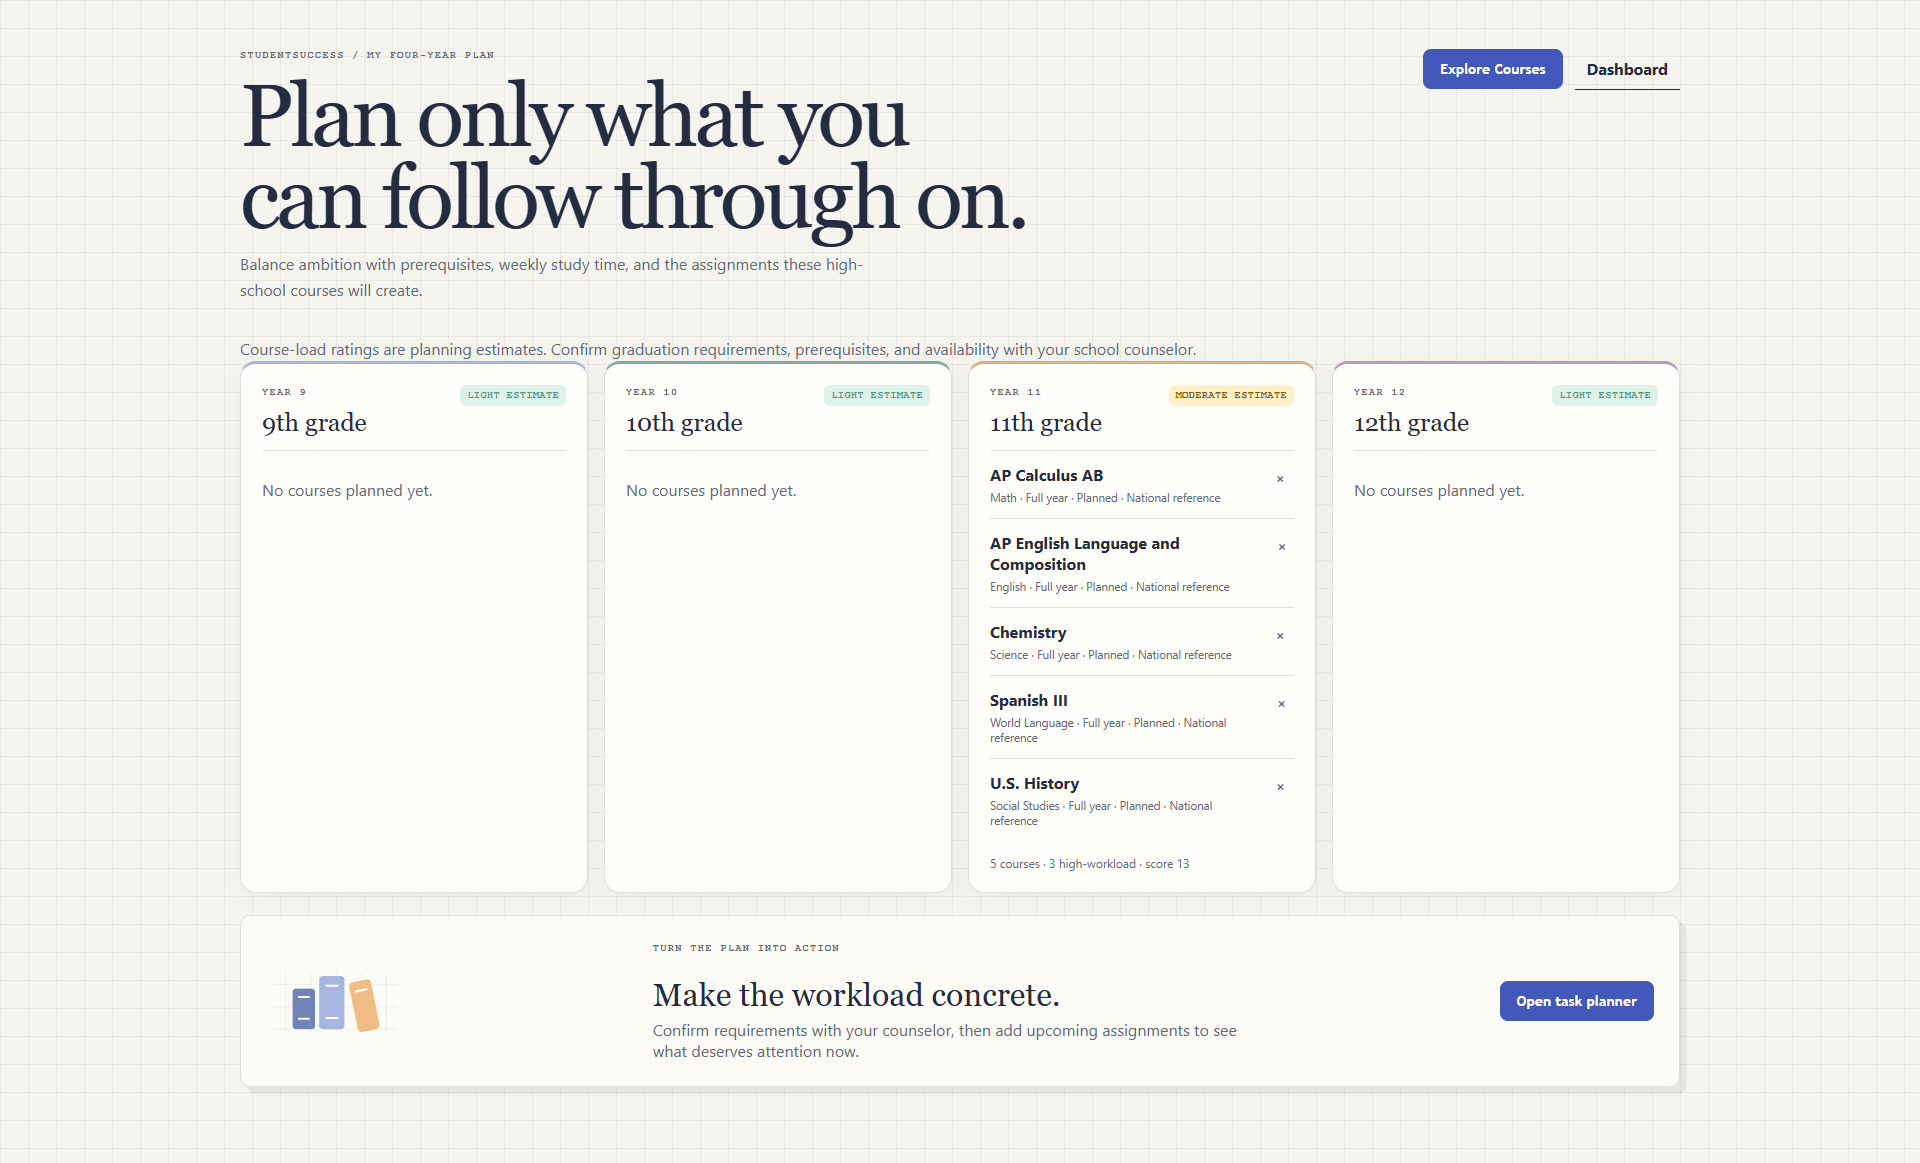
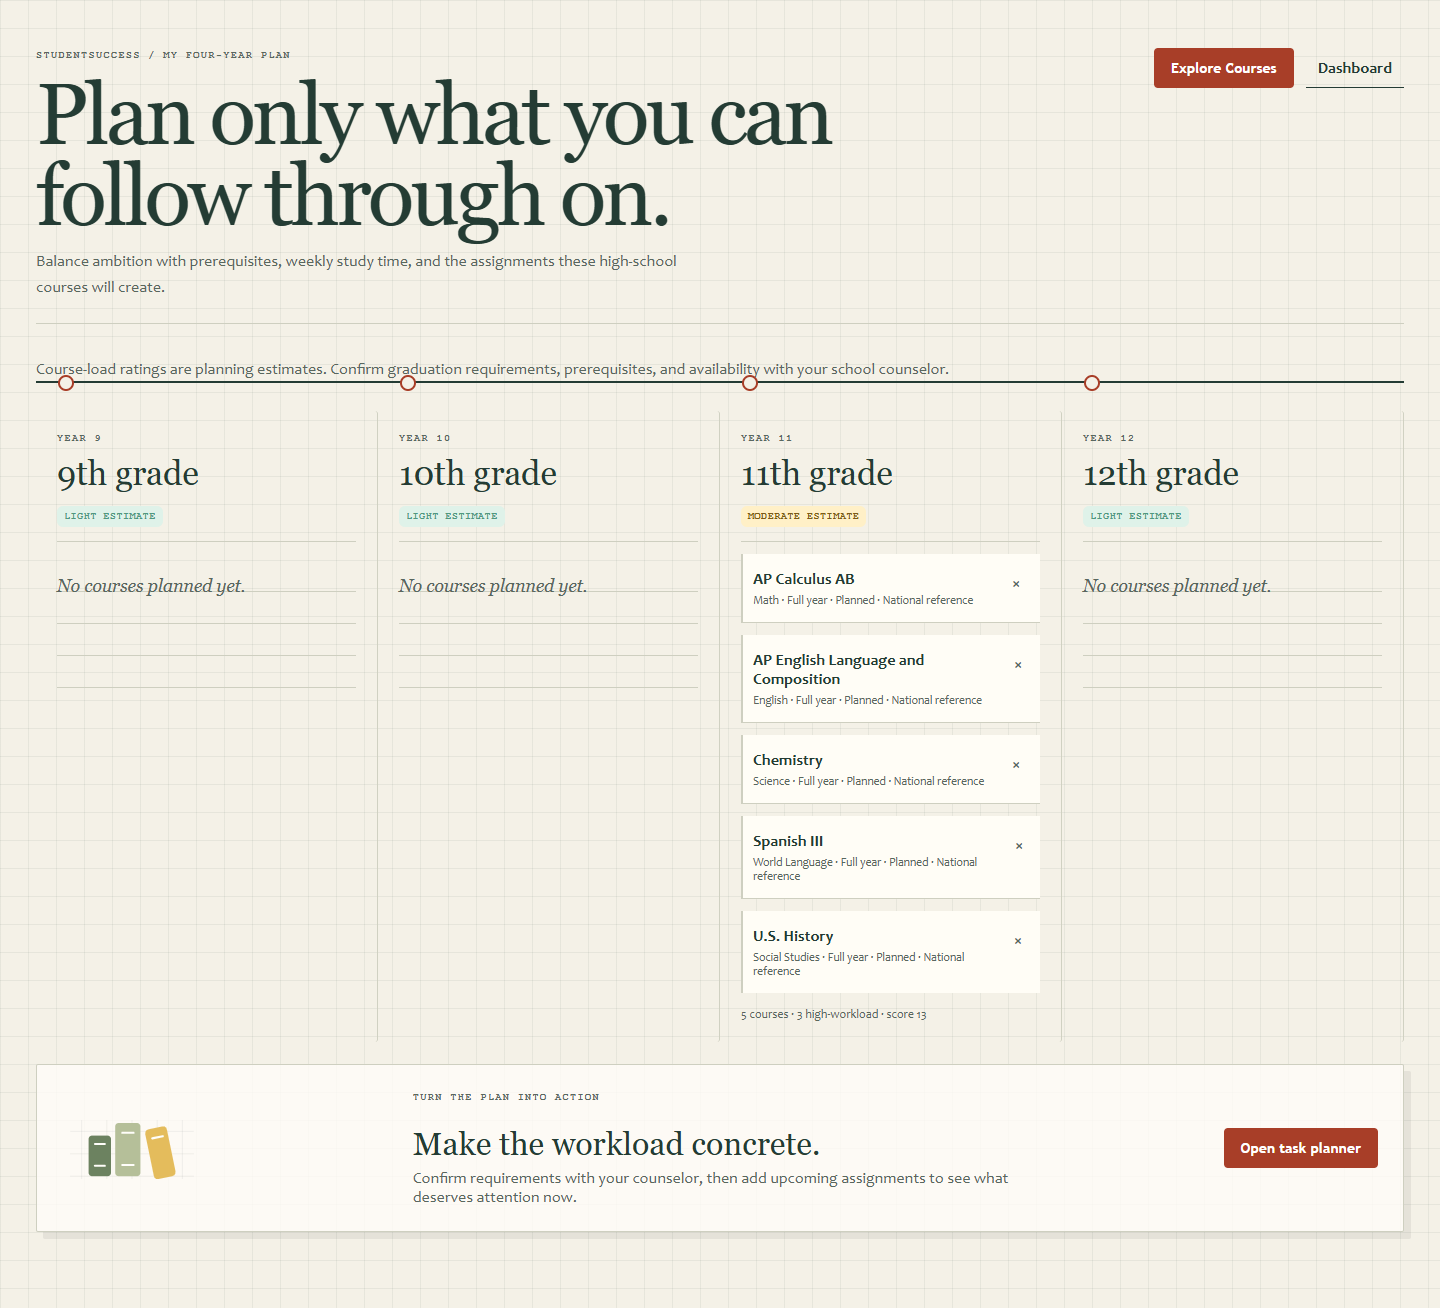
Refresh showcase with current notebook UI and eleven product screenshots

diff --git a/docs/screenshots/README.md b/docs/screenshots/README.md
@@ -2,52 +2,72 @@
 
 [Back to the project README](../../README.md)
 
-Captured September 16, 2026 from the public prototype using fictional demo data. Images are the original user-supplied captures. Open an image at full size to read the longer pages.
+Captured September 17, 2026 from the current application running locally with isolated fictional demo data. Desktop images are 1440 pixels wide; mobile images are 390 pixels wide. These captures show the design deployed at [StudentSuccess](https://studentsuccess.onrender.com/). Open any image at full size for detail.
+
+Still images do not show motion: try the landing-page example on the live site to see the paper tilt, note arrangement, and paper-plane animation.
 
 ## Landing page
 
-Entry points for private planners and the fictional demo.
+Graph paper, layered notes, a folded-paper plane, and entry points for the demo and private planners.
 
-[![Landing page ? Entry points for private planners and the fictional demo.](landing.png)](landing.png)
+[![Landing page: Graph paper, layered notes, a folded-paper plane, and entry points for the demo and private planners.](landing.png)](landing.png)
+
+## Interactive starting plan
+
+The example notes settle into a starting plan. Choose a problem set, essay, or exam, then check the first-step box to see the paper-plane animation. Pointer tilt and motion respect reduced-motion preferences.
+
+[![Interactive starting plan: The example notes settle into a starting plan. Choose a problem set, essay, or exam, then check the first-step box to see the paper-plane animation. Pointer tilt and motion respect reduced-motion preferences.](landing-arranged.png)](landing-arranged.png)
 
 ## Dashboard
 
-Explained next actions, due dates, workload, and start-history summaries.
+One prominent next task with a direct Start button, expandable reasons, and separate summary cards. Desktop navigation and logout remain reachable while scrolling.
 
-[![Dashboard ? Explained next actions, due dates, workload, and start-history summaries.](dashboard.png)](dashboard.png)
+[![Dashboard: One prominent next task with a direct Start button, expandable reasons, and separate summary cards. Desktop navigation and logout remain reachable while scrolling.](dashboard.png)](dashboard.png)
 
 ## Task planner
 
-Task entry and a queue of fictional assignments with start and completion controls.
+Task entry and fictional assignments with planned starts, deadlines, start controls, and completion controls.
 
-[![Task planner ? Task entry and a queue of fictional assignments with start and completion controls.](tasks.png)](tasks.png)
+[![Task planner: Task entry and fictional assignments with planned starts, deadlines, start controls, and completion controls.](tasks.png)](tasks.png)
 
 ## Course explorer
 
-National reference catalog with filters and course cards.
+National reference courses with filters, workload estimates, and comparison controls. Reference coverage varies by catalog.
 
-[![Course explorer ? National reference catalog with filters and course cards.](courses.png)](courses.png)
+[![Course explorer: National reference courses with filters, workload estimates, and comparison controls. Reference coverage varies by catalog.](courses.png)](courses.png)
 
 ## Course comparison
 
-Three English course references shown side by side.
+AP Chemistry and AP Biology references shown side by side. Up to three courses can be compared.
 
-[![Course comparison ? Three English course references shown side by side.](comparison.png)](comparison.png)
+[![Course comparison: AP Chemistry and AP Biology references shown side by side. Up to three courses can be compared.](comparison.png)](comparison.png)
 
 ## Four-year plan
 
-The demo has five courses in grade 11; the other years are empty.
+A timeline for grades 9 through 12. This fictional demo has five courses in grade 11; the other years are empty.
 
-[![Four-year plan ? The demo has five courses in grade 11; the other years are empty.](four-year-plan.png)](four-year-plan.png)
+[![Four-year plan: A timeline for grades 9 through 12. This fictional demo has five courses in grade 11; the other years are empty.](four-year-plan.png)](four-year-plan.png)
 
 ## Settings
 
-Appearance, focus, planning, reminders, date/time, and account controls.
+Two columns on wide screens, a sticky Save all settings button, and appearance, focus, task-planning, reminder, date/time, and account controls.
 
-[![Settings ? Appearance, focus, planning, reminders, date/time, and account controls.](settings.png)](settings.png)
+[![Settings: Two columns on wide screens, a sticky Save all settings button, and appearance, focus, task-planning, reminder, date/time, and account controls.](settings.png)](settings.png)
 
-## Mobile dashboard detail
+## Mobile landing page
 
-A close-up of the recommendations on mobile; this capture does not show the full navigation or clock.
+The interactive notebook adapts to a narrow screen with stacked content and touch-friendly controls.
 
-[![Mobile dashboard detail ? A close-up of the recommendations on mobile; this capture does not show the full navigation or clock.](mobile-dashboard.jpeg)](mobile-dashboard.jpeg)
+[![Mobile landing page: The interactive notebook adapts to a narrow screen with stacked content and touch-friendly controls.](landing-mobile.png)](landing-mobile.png)
+
+## Mobile dashboard
+
+Full mobile navigation, logout, clock, task recommendations, summary cards, and expandable supporting information.
+
+[![Mobile dashboard: Full mobile navigation, logout, clock, task recommendations, summary cards, and expandable supporting information.](mobile-dashboard.png)](mobile-dashboard.png)
+
+## Dark appearance
+
+The same interactive example in dark appearance. High-contrast appearance and reduced motion are also available.
+
+[![Dark appearance: The same interactive example in dark appearance. High-contrast appearance and reduced motion are also available.](landing-dark.png)](landing-dark.png)

diff --git a/README.md b/README.md
@@ -4,7 +4,7 @@
 
 StudentSuccess helps high-school students plan a manageable course load and decide which assignment to start next. It brings together four-year course planning, explained task priorities, and feedback on planned versus actual start times.
 
-**[Try StudentSuccess](https://studentsuccess.onrender.com/)** ? [Screenshot gallery](docs/screenshots/README.md)
+**[Try StudentSuccess](https://studentsuccess.onrender.com/)** | [Screenshot gallery](docs/screenshots/README.md)
 
 > Public prototype: explore with fictional information only. The demo server may take about a minute to wake after inactivity.
 
@@ -14,19 +14,30 @@ StudentSuccess helps high-school students plan a manageable course load and deci
 
 ![StudentSuccess dashboard](docs/screenshots/dashboard.png)
 
+[View all eleven screenshots](docs/screenshots/README.md), including two-column Settings, the course timeline, mobile layouts, and dark appearance.
+
+## The current workspace
+
+- **A notebook with depth.** Graph paper, layered paper edges, folded corners, soft shadows, and a paper-plane illustration. The landing-page example responds to pointer movement and lets you turn a large assignment into a small first step.
+- **A clearer next action.** Start the recommended task directly from the dashboard, expand its reasons, and review the rest of your workload in separate cards.
+- **Less scrolling.** Settings uses two columns on wide screens with a sticky Save button. Logout sits below dashboard navigation, and the desktop sidebar stays in view.
+- **Your preferred pace.** Light, dark, and high-contrast appearances; adjustable text, spacing, and focus; reduced-motion support; and expandable summaries on mobile.
+
 ## What you can do
 
-- **Choose what to start next.** See task recommendations with plain-language reasons.
-- **Turn deadlines into a starting plan.** Track planned and actual starts, complete assignments, and review timing patterns.
+- **Choose what to start next.** See task recommendations with plain-language reasons and start the top recommendation directly.
+- **Turn deadlines into a starting plan.** Track planned and actual starts, complete assignments, record actual duration, and review timing patterns. Recurring tasks and optional in-app reminders support ongoing work.
 - **Compare course options.** Explore reference catalogs, compare courses, and build a four-year plan with workload estimates.
 - **Adjust your workspace.** Choose appearance, accessibility, focus, and reminder preferences.
-- **Keep control of your plan.** Export data or delete your planner.
+- **Keep control of your plan.** Export account data, download a calendar file, clear completed history, or delete your planner.
 
 ## Try it
 
 Choose **Try the fictional demo** to explore a populated sample workspace, or **Create a private planner** for a server-saved workspace without a name or email. Keep its generated access code safe: anyone with it can open the planner, and lost codes cannot be recovered.
 
 An optional browser-only workspace stores its plan on your device and supports manual backups. It does not automatically sync with server accounts.
+
+No automatic welcome popup interrupts browsing. Open **How this works & privacy** whenever you need the explanation. Free-text submissions require confirmation that they contain no personal information; this is a user acknowledgment, not automatic detection.
 
 ## About this showcase
 
